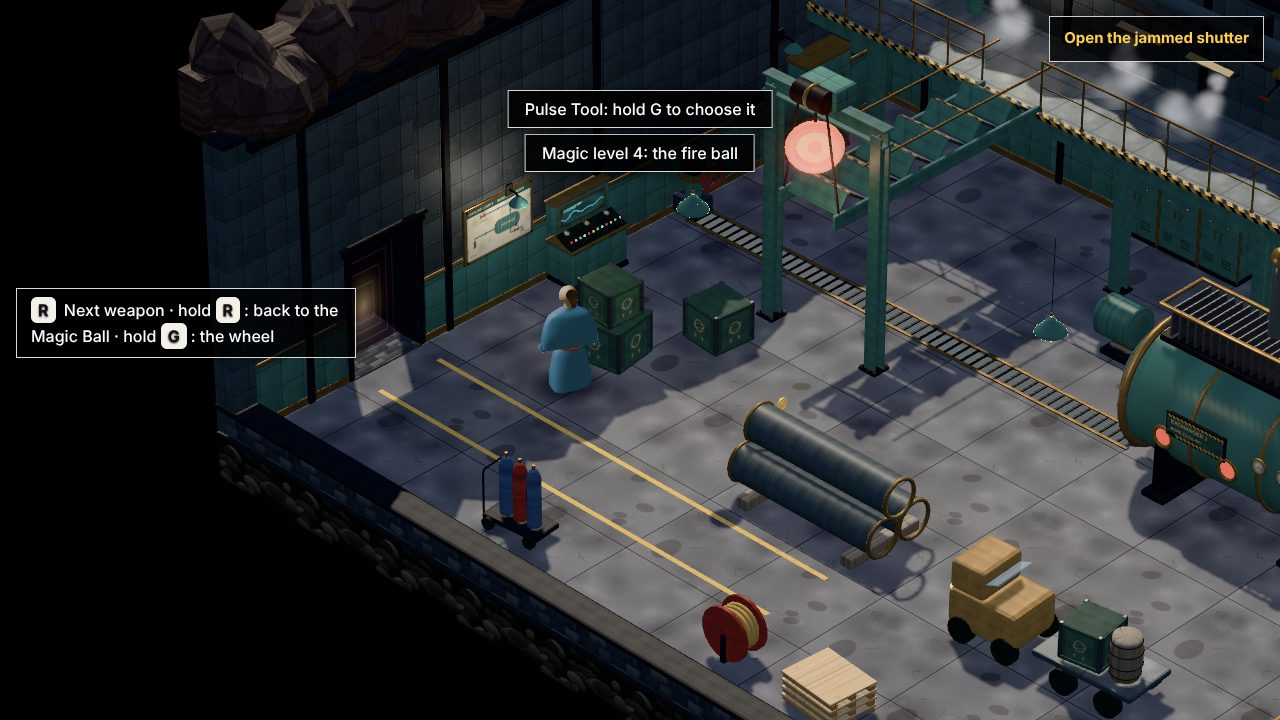
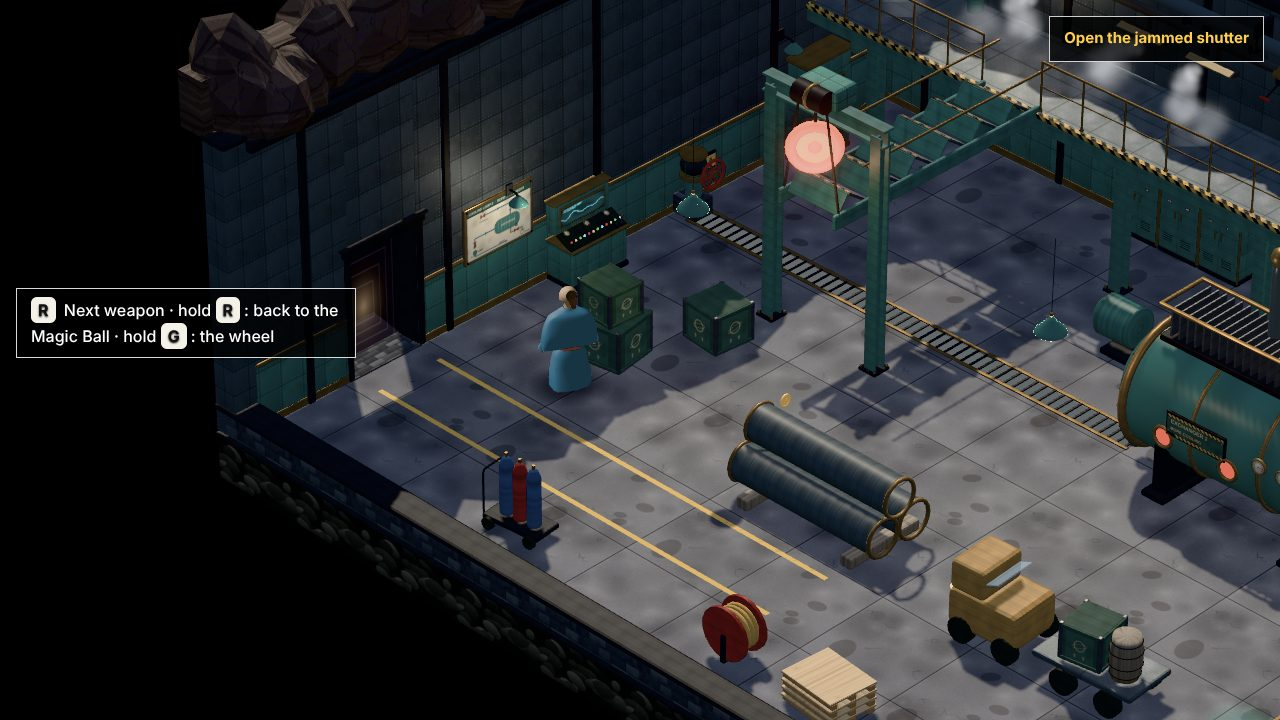
PUZZLES (P80) phase 2, item 1: chapter 15's cooling — one pump for the drill's drive and the exchanger; the drain found open; both feeds with it running starve the drive (it slows, its lamp red, his line once); shut the drain and the loop closes: the drive keeps turning, the exchanger cools; a nudge
puzzles.mjs c15 7/7, chapter3 48/48 (its valve checks changed on purpose), playthrough 14 PASS (its valve step changed on purpose, a step added). Automated runtime only

Claude-Session: https://claude.ai/code/session_012GFEakZyL3XxjZKHRj5dFg

diff --git a/lba3/src/game/underground.js b/lba3/src/game/underground.js
@@ -691,8 +691,9 @@ const flowTex = () => M('ugflow', () => tiled(canvasTex(256, 64, (x, W, H) => {
   x.fillStyle = g; x.fillRect(0, 0, W, H);
   for (let i = 0; i < 9; i++) { const px = (i / 9) * W + (i % 3) * 7, gg = x.createLinearGradient(px, 0, px + 26, 0); gg.addColorStop(0, 'rgba(255,255,255,0)'); gg.addColorStop(0.6, 'rgba(230,255,255,0.9)'); gg.addColorStop(1, 'rgba(255,255,255,0)'); x.fillStyle = gg; x.fillRect(px, H * 0.25, 26, H * 0.5); }
 }), 1, 1));
-// the cooling circuit as painted on the wall plate: where each pipe runs (A and C into the exchanger, B out of it to the
-// drain). PUZZLES P-C: no longer the drain crossed out in red: the sight glasses and the drain's glow answer it
+// the cooling circuit as painted on the wall plate: where each pipe runs (one pump: the bore's drive, and A and C into the
+// exchanger; B out of it to the drain). PUZZLES P-C: no longer the drain crossed out in red; phase 2: the drive's branch
+// drawn too (the pump keeps the drive and the exchanger only while nothing runs down the drain)
 const diagramTex = () => M('ugdiagram', () => canvasTex(768, 512, (x, W, H) => {
   x.fillStyle = '#e8e0c8'; x.fillRect(0, 0, W, H);
   const r = rng(5);
@@ -725,6 +726,11 @@ const diagramTex = () => M('ugdiagram', () => canvasTex(768, 512, (x, W, H) => {
   valve(90, 360, 'A', true); valve(190, 110, 'C'); valve(590, 420, 'B');
   x.fillStyle = '#4a4a50'; x.font = "bold 20px 'Arial Narrow', Arial, sans-serif";
   x.fillText('FLOOR', 40, 470); x.fillText('CATWALK', 150, 160); x.fillText('DRAIN', 690, 486);
+  // (PUZZLES P-C 2) the pump at the foot of A's riser, and its other branch along the bottom to the bore's drive
+  pipeL([[90, 440], [90, 482], [470, 482]], '#2a7a9a', 10);
+  x.fillStyle = '#2a7a9a'; x.save(); x.translate(470, 482); x.beginPath(); x.moveTo(-14, -14); x.lineTo(16, 0); x.lineTo(-14, 14); x.fill(); x.restore();
+  x.fillStyle = '#3f8a86'; x.strokeStyle = '#1e3a38'; x.lineWidth = 3; x.beginPath(); x.arc(90, 440, 24, 0, 7); x.fill(); x.stroke();
+  x.fillStyle = '#1e1e22'; x.font = "bold 22px 'Arial Narrow', Arial, sans-serif"; x.fillText('PUMP', 122, 446); x.fillText('DRIVE', 380, 470);
   // the drain
   x.strokeStyle = '#4a4a50'; x.lineWidth = 4; x.beginPath(); x.arc(660, 470, 22, 0, 7); x.stroke();
 }));
@@ -857,13 +863,17 @@ function buildDeep(scene, physics) {
   for (const [id, p, y, wy] of vdefs) {
     R.valves.push({ id, ...B.world(p.x, p.z), y, wheelY: wy, open: false, turn: 0, setOpen(b) { this.open = !!b; refresh(); } });
   }
+  // PUZZLES P-C (phase 2): one pump feeds the bore's drive and the exchanger. With both feeds open while B runs the
+  // exchanger's coolant down the drain, the pump can't keep up and the drive starves (it slows, its lamp goes red): the
+  // drill must not stop halfway. Shut the drain and the loop closes: the drive keeps turning and the exchanger cools.
+  R.coolState = () => { const st = Object.fromEntries(R.valves.map((v) => [v.id, v.open])); return { good: !!(st.A && st.C && !st.B), starve: !!(st.A && st.C && st.B), feeds: +!!st.A + +!!st.C }; };
+  let driveGoal = 1;
   const refresh = () => {
-    const st = Object.fromEntries(R.valves.map((v) => [v.id, v.open]));
-    const good = st.A && st.C && !st.B;
-    for (const m of sight) { m.emissive.set(good ? '#40e8ff' : st.A || st.C ? '#ffb040' : '#ff5a20'); m.color.set(good ? '#103a48' : '#401810'); }
-    exLight.color.set(good ? '#60e0ff' : '#ff8a40');
+    const c = R.coolState();
+    for (const m of sight) { m.emissive.set(c.good ? '#40e8ff' : c.feeds ? '#ffb040' : '#ff5a20'); m.color.set(c.good ? '#103a48' : '#401810'); }
+    exLight.color.set(c.good ? '#60e0ff' : '#ff8a40');
+    driveGoal = c.starve ? 0.1 : 1;
   };
-  refresh();
 
   // --- the catwalk along the back wall (deck at UY), the hinged stair, the gantry with the ball switch
   const CW = { x0: LX, x1: 0.6, z0: BZ, z1: BZ + 2.3 };
@@ -984,6 +994,10 @@ function buildDeep(scene, physics) {
 
   // --- the bore's transmission in the corner: the drill string coming down, a ring gear and its motor
   const TX = { x: 9.5, z: -6.2 };
+  // (PUZZLES P-C 2) the drive's lamp on its motor's front: green while it turns at speed, red while it starves
+  const driveLamp = new THREE.Mesh(sphere(0.09, 10, 8), stdM({ color: '#c8ffd0', emissive: '#30e060', emissiveIntensity: 2.2 }, 0, { noShadow: true }));
+  driveLamp.position.set(TX.x - 1.65, 1.55, TX.z + 1.04); B.group.add(driveLamp);
+  R.drive = { speed: 1, get starved() { return driveGoal < 1; } };
   const tstring = new THREE.Group(); tstring.position.set(TX.x, 0, TX.z); B.group.add(tstring);
   { const sm = new THREE.Mesh(new THREE.CylinderGeometry(0.55, 0.55, 12, 18, 1, true), M('ugstring', () => { const m = stdM({ map: drillTex(), roughness: 0.4, metalness: 0.55 }); m.map.repeat.set(2, 9); return m; })); sm.position.y = 6; sm.castShadow = false; tstring.add(sm); }
   const gear = new THREE.Mesh(P.gearGeo(1.35, 36, 0.3, 0.4), brass()); gear.rotation.x = -Math.PI / 2; gear.position.y = 1.45; tstring.add(gear);
@@ -1139,10 +1153,17 @@ function buildDeep(scene, physics) {
   }
 
   flushNoShadow(kt);
-  let wasFlow = '';
+  let wasFlow = '', driveA = 0;
+  refresh();
   R.updaters.push((dt, tt) => {
-    tstring.rotation.y = tt * 1.1;
-    pin.rotation.z = -tt * 1.1 * (1.35 / 0.45);
+    // (PUZZLES P-C 2: the drive at the pump's mercy: it winds down while starved, back up once fed; a judder at a crawl)
+    const D = R.drive; D.speed += (driveGoal - D.speed) * Math.min(1, dt * 0.8);
+    driveA += dt * 1.1 * D.speed;
+    tstring.rotation.y = driveA + (D.speed < 0.5 ? Math.sin(tt * 40) * 0.02 : 0);
+    pin.rotation.z = -driveA * (1.35 / 0.45);
+    const red = D.speed < 0.6;
+    driveLamp.material.emissive.set(red ? '#ff3020' : '#30e060'); driveLamp.material.color.set(red ? '#ffd0c0' : '#c8ffd0');
+    driveLamp.material.emissiveIntensity = red ? 1.2 + Math.max(0, Math.sin(tt * 6)) * 1.6 : 2.2;
     // stair and shutter animation
     if (stairT < stairGoal) { stairT = Math.min(1, stairT + dt / 1.6); const e = stairT * stairT * (3 - 2 * stairT); flight.rotation.x = STOW * (1 - e); placeChains(); }
     else if (stairT >= 1 && flight.rotation.x !== 0) { flight.rotation.x = 0; placeChains(); }

diff --git a/lba3/src/game/story/chapter3.js b/lba3/src/game/story/chapter3.js
@@ -10,8 +10,10 @@
 //
 // Twinsen follows Vesk down the drill shaft at Citadel's station (SHAFT-CITADEL: its top is the bore's collar in the old
 // fort's yard; the network's code opened its blast doors in chapter 10, and the lift comes back up there). In the project's deep installation he cools the bore's heat
-// exchanger to free a jammed shutter (a cooling diagram on the wall gives the circuit: valves A and C to
-// the exchanger, B to a drain; valve C sits on a catwalk reached by knocking a ladder down with the ball),
+// exchanger to free a jammed shutter (a cooling diagram on the wall shows the circuit: one pump for the bore's drive
+// and, by valves A and C, the exchanger; B from the exchanger to a drain, found open. PUZZLES P-C phase 2: both feeds
+// open with the drain running starve the drive, which must not stop halfway; shut the drain and the loop closes; valve
+// C sits on a catwalk reached by knocking a ladder down with the ball),
 // past a maintenance drone. In the crystal galleries the well's crystals have grown huge; waking three
 // pillars with the ball raises stepping stones across the chasm (the cliffs' mechanic, bigger). Sendell
 // tells him plainly what lies under the shell and why stopping the drill is not enough. In the core Vesk
@@ -172,7 +174,11 @@ export class Chapter3 extends ChapterBase {
           (f.c3_valves ||= {})[v.id] = open;
           g.audio.play(open ? 'chest' : 'select');
           g.hud.toast(open ? 'c3_toast_valve_open' : 'c3_toast_valve_closed', { v: v.id });
-          if (v.id === 'B' && open) { this.chain([['hero', 'c3_valve_drain']]); return; }
+          this.turnedAt = g.time;
+          // (PUZZLES P-C 2: what the room shows, said once where it is news: the drive starving; the drain taking the feed)
+          const c = this.R.c3deep?.coolState?.() || {};
+          if (c.starve && !f.c3_starve) { f.c3_starve = true; this.chain([['hero', 'c3_starve']]); return; }
+          if (v.id === 'B' && open && c.feeds) { this.chain([['hero', 'c3_valve_drain']]); return; }
           this.checkCooling();
         }, 0.45);
         return true;
@@ -362,6 +368,8 @@ export class Chapter3 extends ChapterBase {
   onEnterRoom(id) {
     const g = this.game, f = this.f;
     if (!this.on()) return;
+    // (PUZZLES P-C 2: the crew left the drain open: reaching the hall with no valve turned, B is found running)
+    if (id === 'c3deep' && this.part === 1 && !f.c3_cooled && !f.c3_valves) { f.c3_valves = { B: true }; for (const v of this.R.c3deep?.valves || []) { v.setOpen?.(v.id === 'B'); v.open = v.id === 'B'; } }
     if (id === 'c3deep' && !f.c3_deepSeen) { f.c3_deepSeen = true; this.chain([['hero', 'c3_deep_in']], () => g.updateObjective()); }
     if (id === 'c3gallery' && !f.c3_gallerySeen) { f.c3_gallerySeen = true; this.chain([['hero', 'c3_gallery_in'], ['hero', 'c3_gallery_hint']], () => g.updateObjective()); }
     // (CAMPAIGN-9: the arch he came in by grows shut behind him first, shown; Sendell explains it in her words)
@@ -448,6 +456,8 @@ export class Chapter3 extends ChapterBase {
     if (g.room?.id === 'c3core' && f.c3_overload && f.c3_bleed && !f.c3_turned) {
       this.ensureCoil();   // (it animates itself: finale-fx.js, on the room's updaters)
     }
+    // (PUZZLES P-C 2: the drive seen starving, then a while with nothing turned: the drain)
+    this.nudge(dt, 'c3drain', g.room?.id === 'c3deep' && !!f.c3_starve && !f.c3_cooled && g.time - (this.turnedAt ?? -1e9) > 20, 35, 'c3_nudge_drain');
     // nudges for a stuck player only (HINTS-LESS): no pylon after 40 s of the fight, no hit on the coil after 25 s
     const core = g.room?.id === 'c3core';
     this.nudge(dt, 'pylons', core && f.c3_fight && !f.c3_overload && this.pylons() === 0, 40, 'c3_toast_fight');
@@ -480,6 +490,8 @@ export class Chapter3 extends ChapterBase {
     const f = this.f, R = this.R;
     const D = R.c3deep, G = R.c3gallery, C = R.c3core;
     if (D) {
+      // (PUZZLES P-C 2: the crew left the drain open: a game that reaches the hall with no valve turned finds B running)
+      if (this.isCur() && this.part === 1 && !f.c3_cooled && !f.c3_valves) f.c3_valves = { B: true };
       for (const v of D.valves || []) { const o = !!f.c3_valves?.[v.id]; v.setOpen?.(o); v.open = o; }
       if (f.c3_ladder) { for (const tg of D.ballTargets || []) if (tg.ballSwitch) tg.done = true; this.lowerLadder(true); }
       if (f.c3_cooled) D.coolDoor?.open?.();

diff --git a/lba3/src/game/he-text.js b/lba3/src/game/he-text.js
@@ -1075,12 +1075,14 @@ Object.assign(STR.he, {
 
   // the deep installation
   c3_deep_in: 'חדר המנועים של המקדחה. ורחפן תחזוקה בסיור.',
-  c3_diagram: 'תרשים קירור. שתי הזנות נכנסות למחליף החום, אחת מהרצפה ואחת מהמסדרון התלוי. צינור שלישי יוצא ממנו, לניקוז.',
+  c3_diagram: 'תרשים קירור. משאבה אחת מזינה את המנוע של המקדח, ואת מחליף החום בשתי הזנות: אחת מהרצפה ואחת מהמסדרון התלוי. צינור שלישי יוצא ממחליף החום, לניקוז.',
+  c3_starve: 'המנוע מאט! המשאבה לא מספיקה להזין גם אותו וגם את מחליף החום. אם המקדח נעצר באמצע, הקליפה נסדקת.',
+  c3_nudge_drain: 'הניקוז פתוח. כל מה שיורד בו אובד למשאבה.',
   c3_diagram_tw: '(התריס תקוע מהחום. תקרר את מחליף החום והוא אמור להיפתח.)',
   c3_diagram_high: '(שסתום ג\' למעלה על המסדרון התלוי. חייבת להיות דרך למעלה.)',
   c3_toast_valve_open: 'שסתום {v} פתוח',
   c3_toast_valve_closed: 'שסתום {v} סגור',
-  c3_valve_drain: 'זה שופך את נוזל הקירור לניקוז. כדאי לסגור אותו.',
+  c3_valve_drain: 'כשהוא פתוח, נוזל הקירור של מחליף החום זורם ישר לניקוז.',
   c3_ladder: 'זה הוריד את הסולם של המסדרון התלוי.',
   c3_cooled: 'מחליף החום לוחש. המנעול של התריס משתחרר.',
 

diff --git a/lba3/src/game/text/he/ch3.js b/lba3/src/game/text/he/ch3.js
@@ -14,12 +14,14 @@ Object.assign(STR.he, {
 
   // the deep installation
   c3_deep_in: 'חדר המנועים של המקדחה. ורחפן תחזוקה בסיור.',
-  c3_diagram: 'תרשים קירור. שתי הזנות נכנסות למחליף החום, אחת מהרצפה ואחת מהמסדרון התלוי. צינור שלישי יוצא ממנו, לניקוז.',
+  c3_diagram: 'תרשים קירור. משאבה אחת מזינה את המנוע של המקדח, ואת מחליף החום בשתי הזנות: אחת מהרצפה ואחת מהמסדרון התלוי. צינור שלישי יוצא ממחליף החום, לניקוז.',
+  c3_starve: 'המנוע מאט! המשאבה לא מספיקה להזין גם אותו וגם את מחליף החום. אם המקדח נעצר באמצע, הקליפה נסדקת.',
+  c3_nudge_drain: 'הניקוז פתוח. כל מה שיורד בו אובד למשאבה.',
   c3_diagram_tw: '(התריס תקוע מהחום. תקרר את מחליף החום והוא אמור להיפתח.)',
   c3_diagram_high: '(שסתום ג\' למעלה על המסדרון התלוי. חייבת להיות דרך למעלה.)',
   c3_toast_valve_open: 'שסתום {v} פתוח',
   c3_toast_valve_closed: 'שסתום {v} סגור',
-  c3_valve_drain: 'זה שופך את נוזל הקירור לניקוז. כדאי לסגור אותו.',
+  c3_valve_drain: 'כשהוא פתוח, נוזל הקירור של מחליף החום זורם ישר לניקוז.',
   c3_ladder: 'זה הוריד את הסולם של המסדרון התלוי.',
   c3_cooled: 'מחליף החום לוחש. המנעול של התריס משתחרר.',
 

diff --git a/lba3/src/game/text/ch3.js b/lba3/src/game/text/ch3.js
@@ -17,12 +17,14 @@ Object.assign(STR.en, {
   // the deep installation
   c3_deep_in: "The drill's engine room. And a maintenance drone on patrol.",
   // (PUZZLES P-C: where the pipes run, not how to set them; the exchanger's sight glasses answer)
-  c3_diagram: 'A cooling diagram. Two feeds run into the heat exchanger, one from the floor and one from the catwalk. A third pipe runs out of it, to a drain.',
+  c3_diagram: "A cooling diagram. One pump feeds the drill's drive, and the heat exchanger by two feeds: one from the floor, one from the catwalk. A third pipe runs out of the exchanger, to a drain.",
+  c3_starve: "The drive's slowing down! The pump can't feed it and the exchanger both. If the drill stops halfway, the shell cracks.",
+  c3_nudge_drain: 'The drain is open. Whatever runs down it is lost to the pump.',
   c3_diagram_tw: '(The shutter is jammed by the heat. Cool the exchanger and it should open.)',
   c3_diagram_high: '(Valve C is up on the catwalk. There has to be a way up.)',
   c3_toast_valve_open: 'Valve {v} open',
   c3_toast_valve_closed: 'Valve {v} closed',
-  c3_valve_drain: 'That one dumps the coolant down the drain. Better close it.',
+  c3_valve_drain: "Open, the exchanger's coolant runs straight down the drain.",
   c3_ladder: 'That dropped the catwalk ladder.',
   c3_cooled: "The exchanger hisses. The shutter's lock lets go.",
 

diff --git a/lba3/src/game/text/voicemeta.js b/lba3/src/game/text/voicemeta.js
@@ -176,6 +176,7 @@ export const VOICE_META = {
   c8_zoe_wait: ['neutral', 'neutral', 'neutral'], c8_zoe_done: ['pleased', 'neutral', 'pleased'], c8_ar_after: { i: ['urgent', 'pleased'], e: ['real'] },
   c7_yorna_after: ['neutral', 'concerned', 'pleased'], c7_keeper_after: ['pleased', 'neutral'],
   c5_press: ['neutral', 'concerned'],   // (PUZZLES P-A)
+  c3_starve: { i: ['urgent', 'concerned', 'concerned'], e: ['slowing'] },   // (PUZZLES P-C 2)
   c7_seal_stuck: ['neutral', 'curious'], c7_seal_more: ['neutral', 'neutral'], c7_seal_free: ['pleased', 'pleased'], c7_warm_hit: ['neutral', 'neutral'],   // (PUZZLES P-B)
   c5_ilka_relief: ['neutral', 'concerned', 'neutral'], c5_ilka_after: ['pleased', 'annoyed'],
   // (P81 scene 3: Float Harbor — Quill's weights, Ferro's catch)
